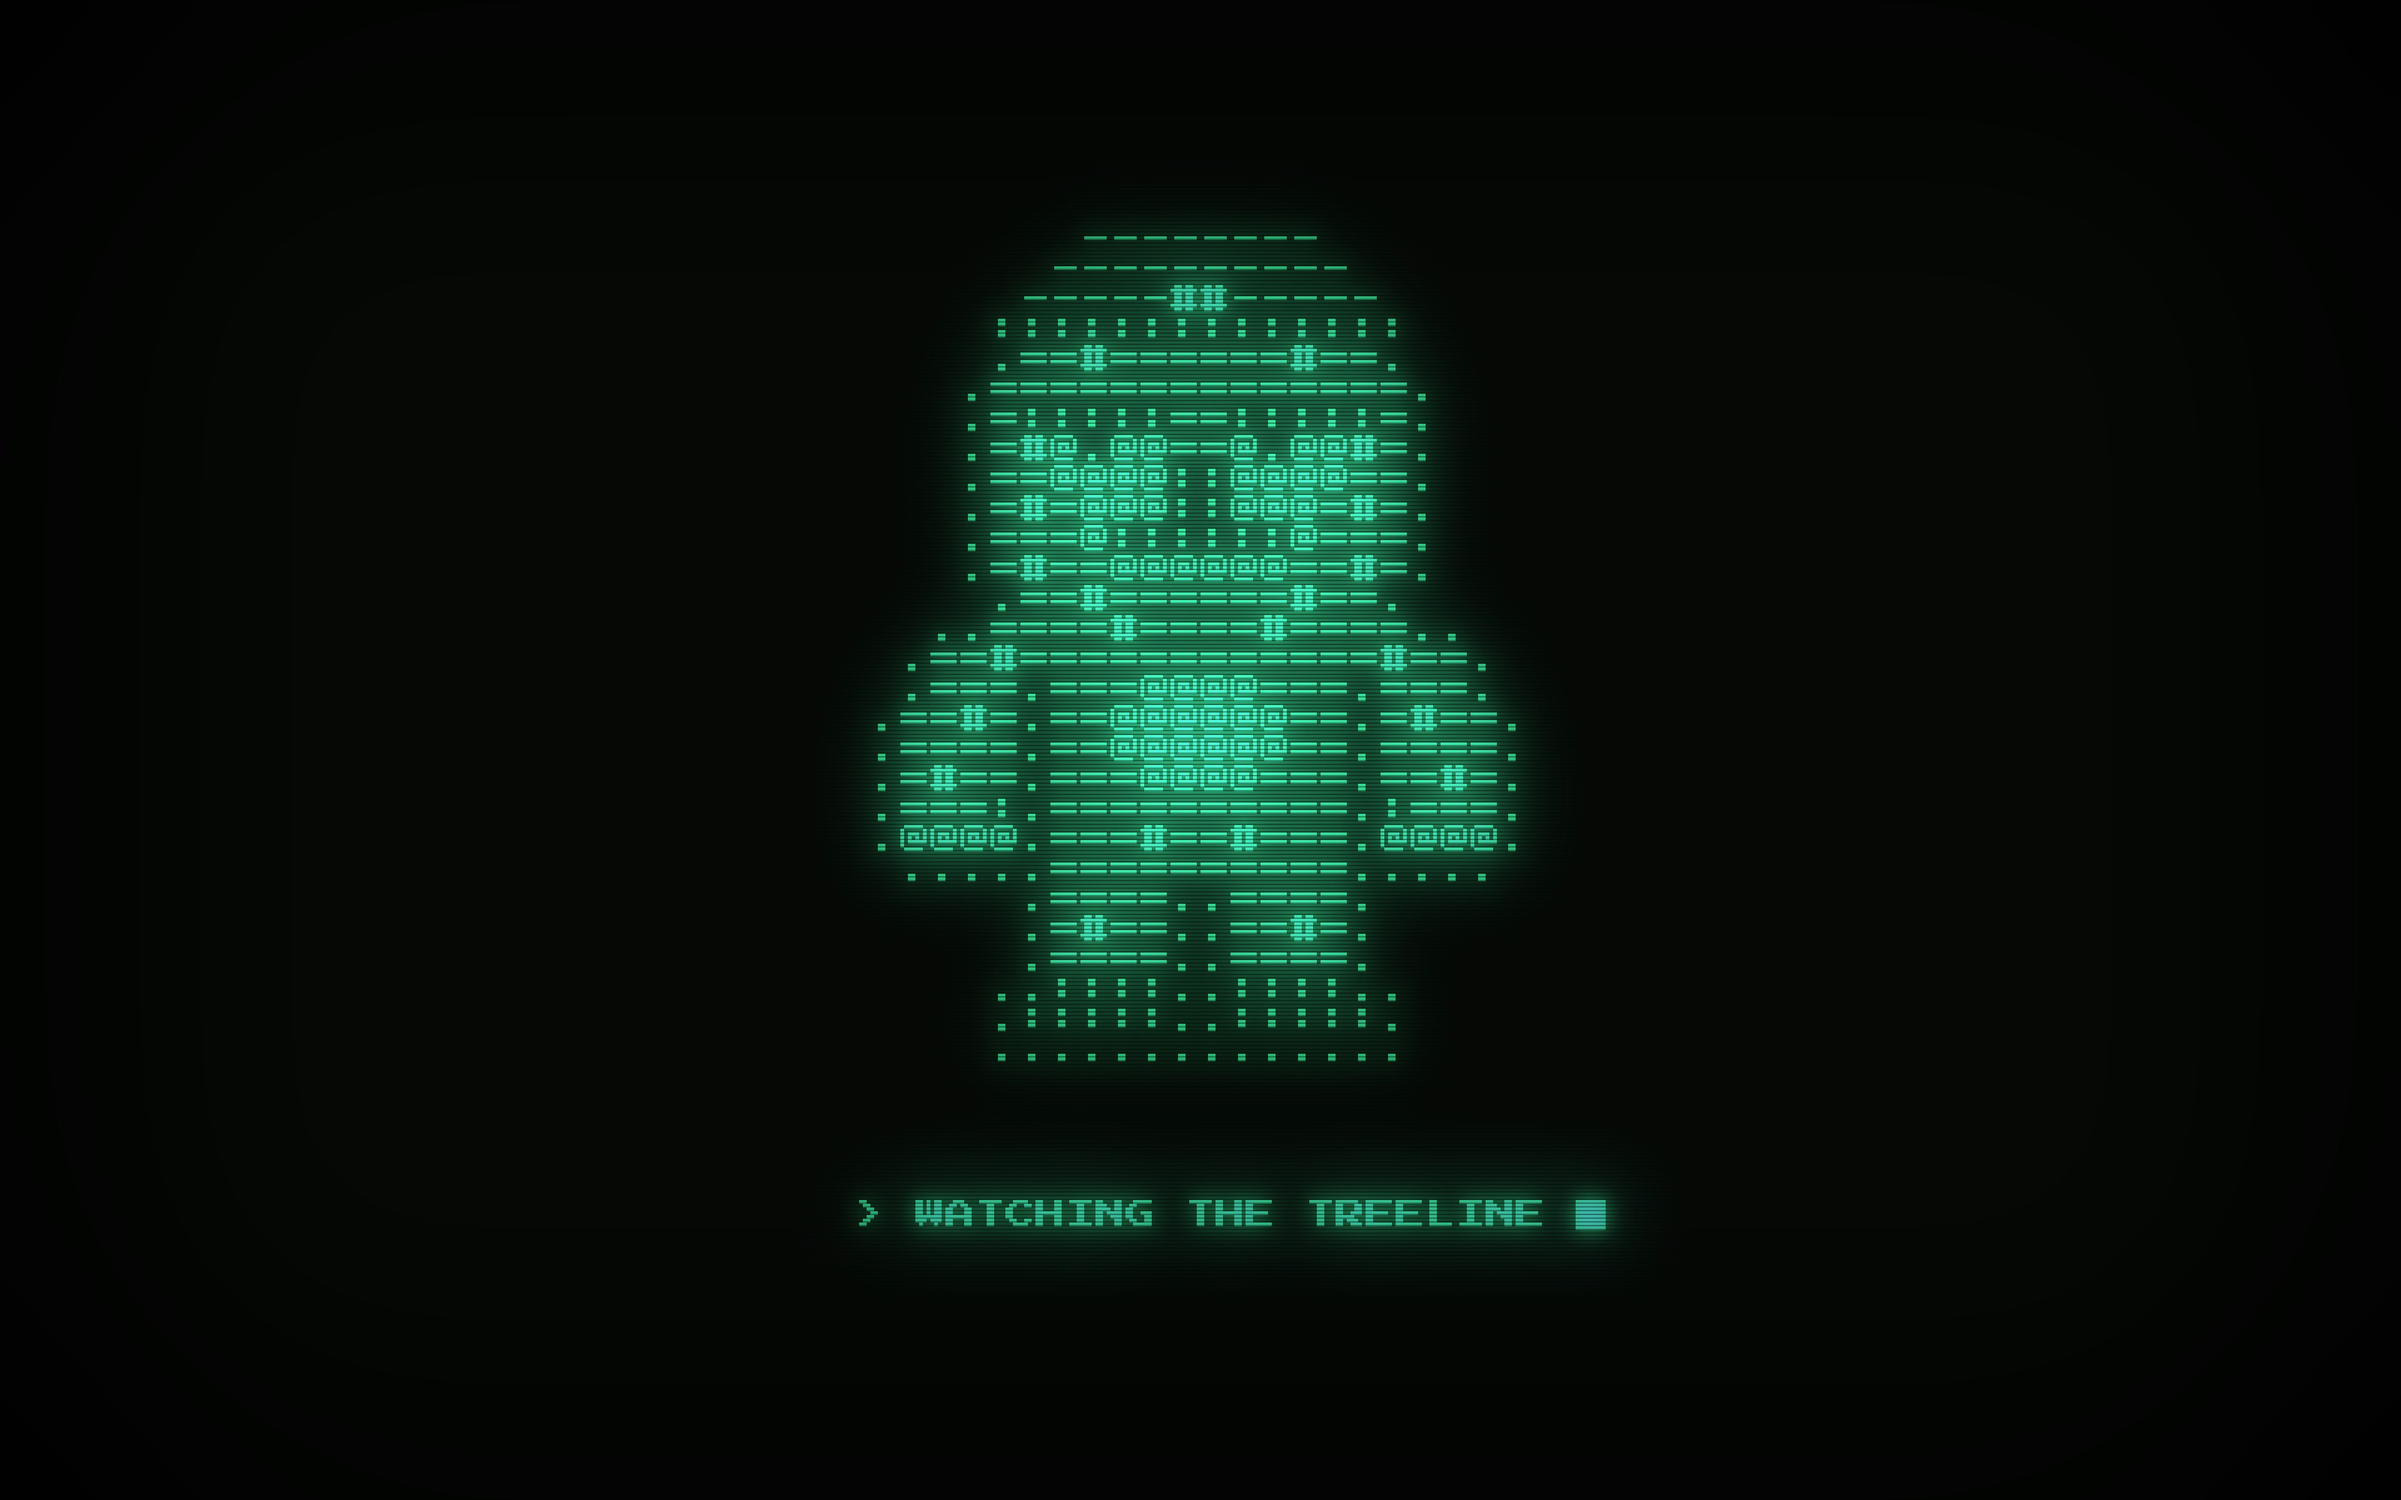
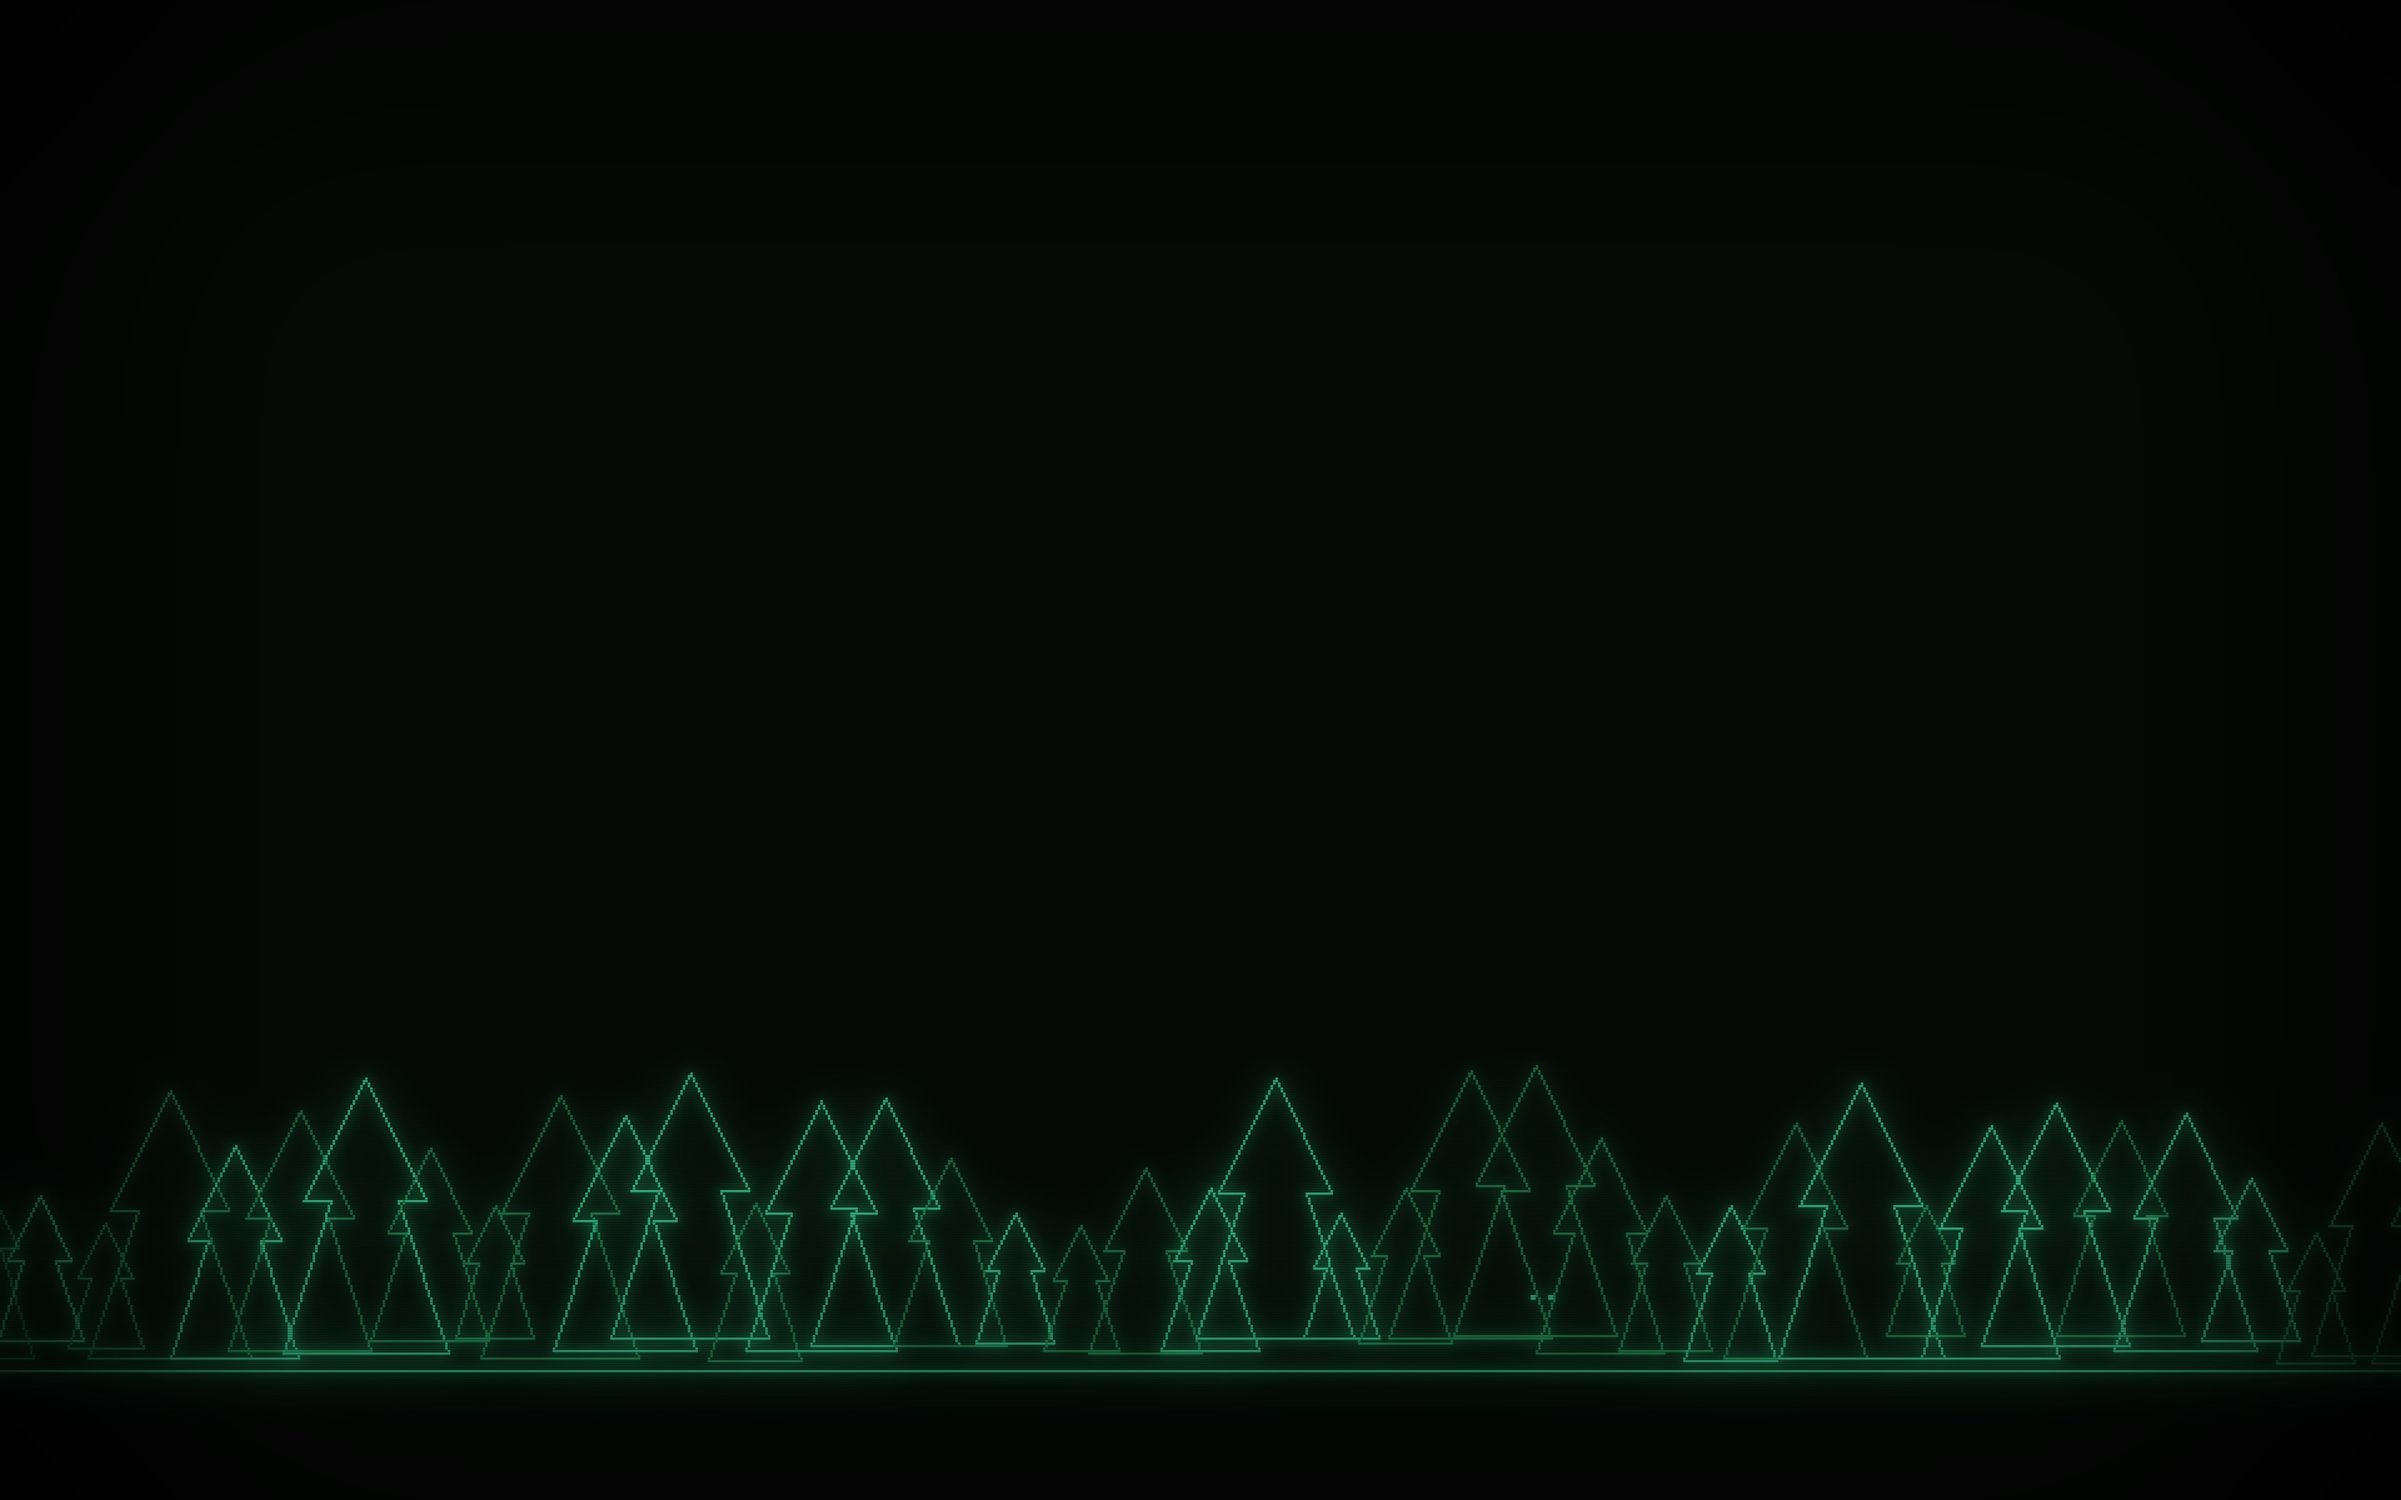
Quieter wallpapers at today's pixel density; no more text screens

Changed region(s): [[0.0, 0.7188, 0.9688, 0.9375], [0.3438, 0.125, 0.6562, 0.7188], [0.0, 0.8125, 0.0312, 0.8438]]

diff --git a/README.md b/README.md
@@ -18,8 +18,9 @@ omarchy theme install https://github.com/squatchware/omarchy-phosphor-green-them
 
 - **Colours** for everything Omarchy themes (terminals, Hyprland, the shell, btop, editors…),
   generated by Omarchy from `colors.toml`. Every text colour clears 4.5:1 on its background.
-- **Wallpapers**, drawn at the machine's own resolution and scaled up with no smoothing:
-- `01-boot.jpg`
+- **Wallpapers** in the machine's own palette and drawing style, at today's pixel density, with
+  room left for your windows:
+- `01-vector.jpg`
 - `02-treeline.jpg`
 - **Boot splash and lock screen** (`unlock.png`): the machine's own start-up screen.
 - **Screensaver** art (`screensaver.txt`), animated by Omarchy's screensaver.
